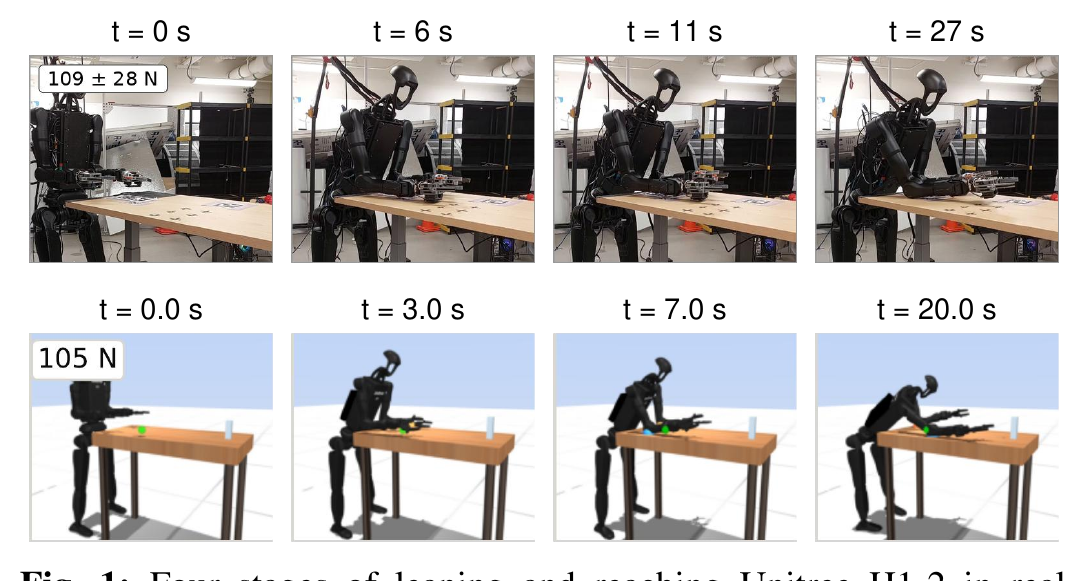
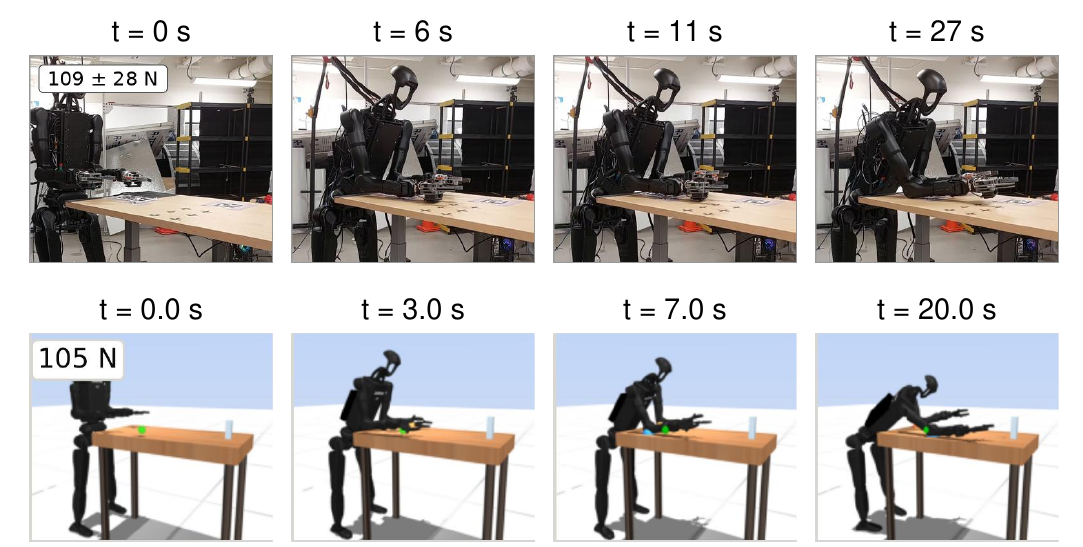
Crop stray caption from stages figure

diff --git a/index.html b/index.html
@@ -71,7 +71,7 @@
   <h2>Results</h2>
 
   <figure class="wide">
-    <img src="assets/fig_stages.png" alt="Four stages of leaning and reaching on the real Unitree H1-2 (top row) and in MuJoCo simulation (bottom row): stand, lean and brace, reach, recover">
+    <img src="assets/fig_stages.png?v=2" alt="Four stages of leaning and reaching on the real Unitree H1-2 (top row) and in MuJoCo simulation (bottom row): stand, lean and brace, reach, recover">
     <figcaption><b>Four stages of leaning and reaching,</b> real (top) and simulation (bottom): stand, brace on the forearm, reach, push back up. The 1.3&nbsp;m reach is held for over four minutes.</figcaption>
   </figure>
 
